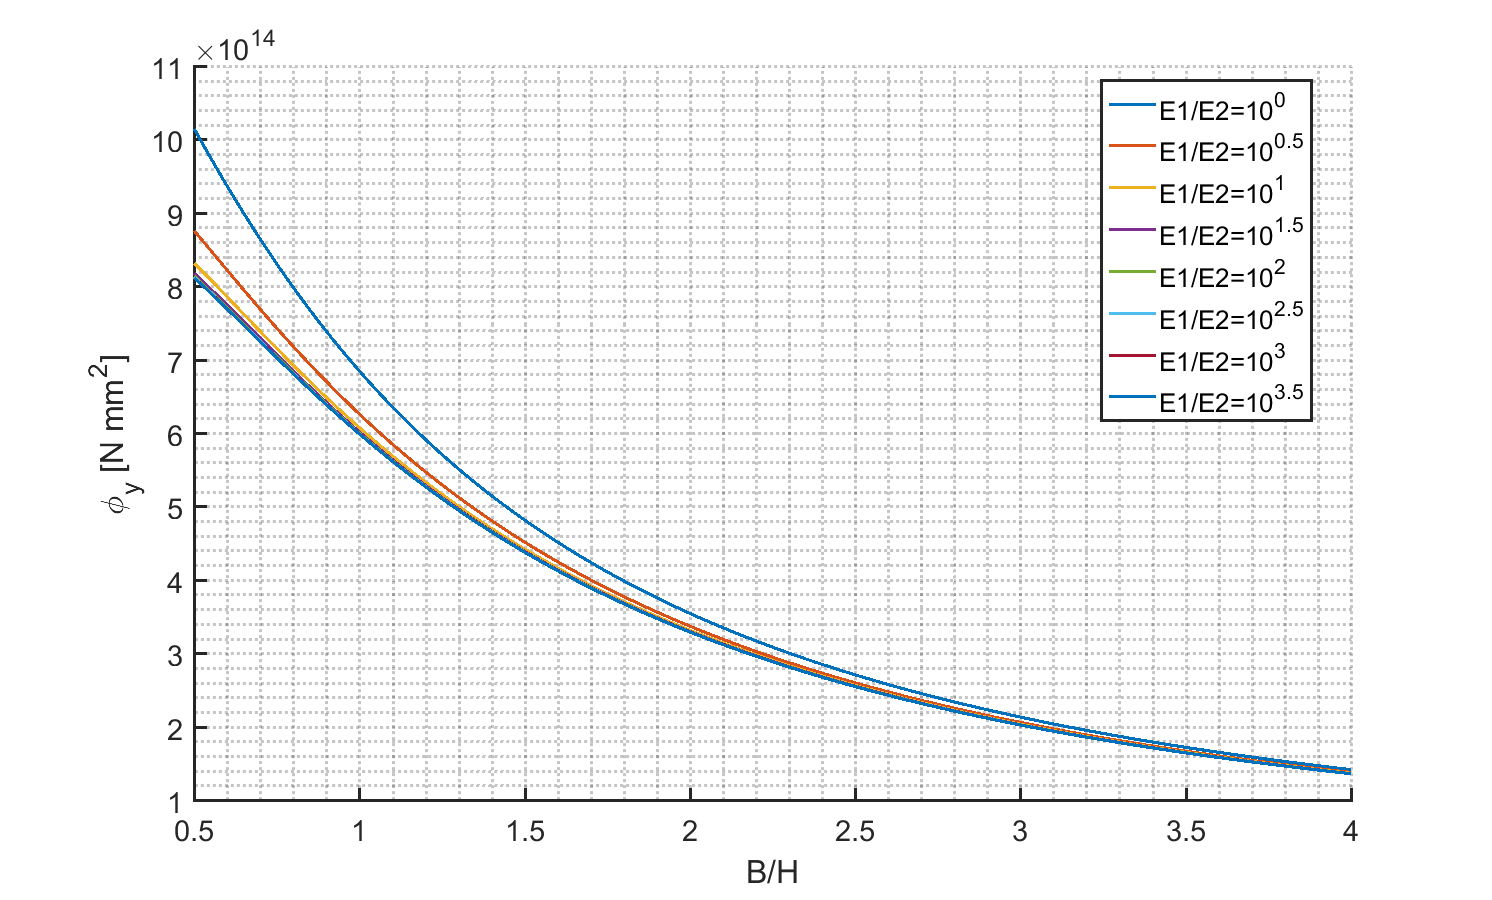
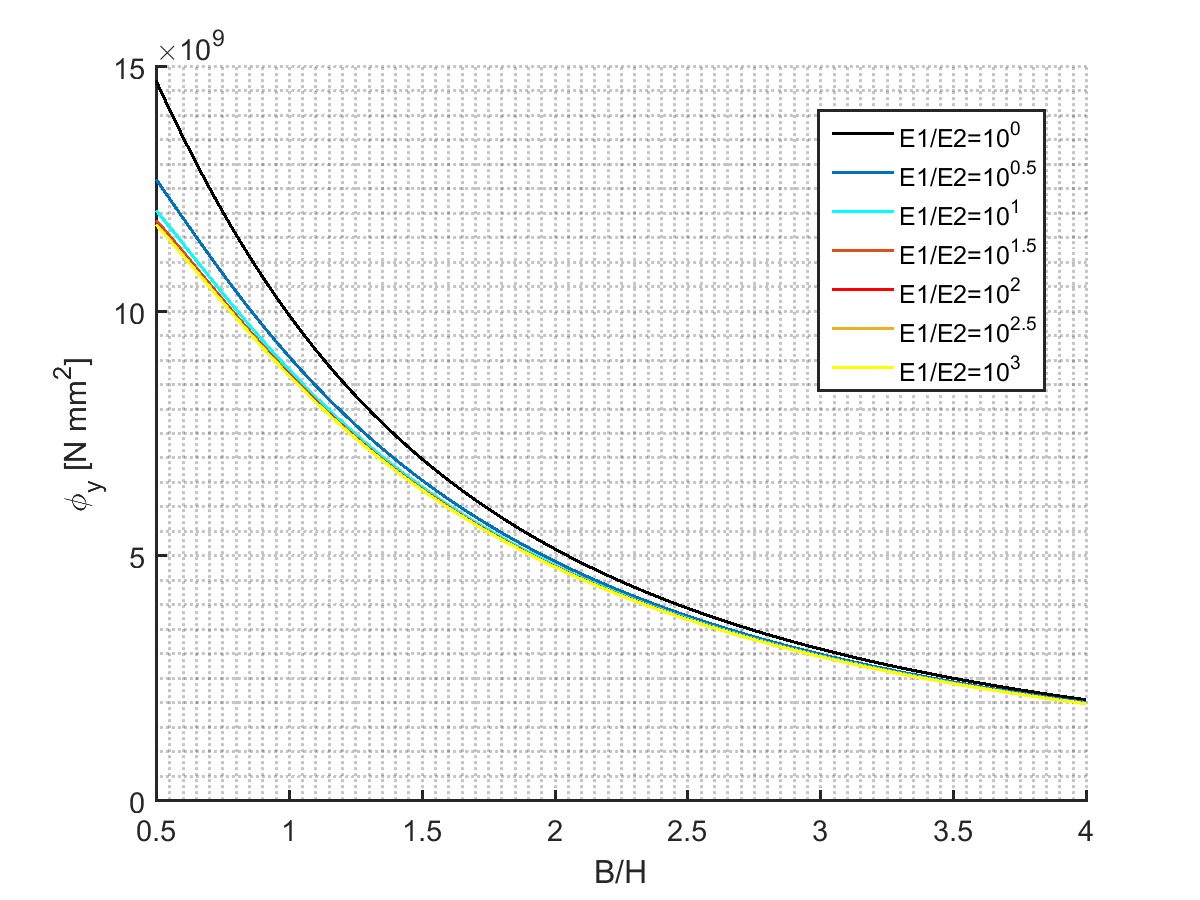
small changes

Changed region(s): [[0.0308, 0.0311, 0.925, 0.9333], [0.4933, 0.9333, 0.555, 0.9956]]

diff --git a/variationParameters.m b/variationParameters.m
@@ -22,7 +22,7 @@ loadCase.posForceAdim = 0.5;
 plotSettings.plotAnalytical = false;
 plotSettings.savePlot = true;
 
-plotSettings.lineStyle = ['k-', 'c-', 'r-', 'y-', 'k--', 'c--', 'r--', 'y--', 'k:', 'c:', 'r:', 'y:','k-.', 'c-.', 'r-.', 'y-.']
+plotSettings.lineStyle = {'k-', 'c-', 'r-', 'y-', 'k--', 'c--', 'r--', 'y--', 'k:', 'c:', 'r:', 'y:','k-.', 'c-.', 'r-.', 'y-.'};
 plotSettings.MarkerSize = 30; %Marker size for scattered points, specified as a positive value in points.
 plotSettings.LineWidth = 1.5; %Line width, specified as a positive value in points.
 plotSettings.axGridAlpha = 0.2; %Grid-line transparency, specified as a value in the range [0,1].
@@ -82,7 +82,7 @@ end
 %%%%%%%%%%%%%%%%%%%%%%%%%%%%%%%%%%%%%%%%%%%%%%
 %%%%%%%%%%%%%%%%%%%%%%%%%%%%%%%%%%%%%%%%%%%%%%
 %% Variation of B/H - Torsional stiffness
-clearvars study, mat, geom
+clearvars study mat geom
 study.BoverH = linspace(0.5, 4, 100);
 study.E1overE2 = [1, 10^0.5, 10^1, 10^1.5, 10^2, 10^2.5, 10^3];
 
@@ -186,7 +186,7 @@ end
 %%%%%%%%%%%%%%%%%%%%%%%%%%%%%%%%%%%%%%%%%%%%%%
 %%%%%%%%%%%%%%%%%%%%%%%%%%%%%%%%%%%%%%%%%%%%%%
 %% Variation of t_2/t_1 - Torsional stiffness
-clearvars study, mat, geom
+clearvars study mat geom
 study.t2overt1 = linspace(0.1, 8, 100);
 study.E1overE2 = [1, 10^0.5, 10^1, 10^1.5, 10^2, 10^2.5, 10^3];
 
@@ -211,7 +211,7 @@ end
 end
 
 figure('Units', 'normalized', 'Position', [0.15 0.1 0.7 0.75])
-set(gcf, 'Name', 'Torsional stiffness variation for different cross sectional aspect ratio B/H and stiffness ratio E_1/E_2)')
+set(gcf, 'Name', 'Torsional stiffness variation for different thickness ratio t_2/t_1 and stiffness ratio E_1/E_2)')
 ax = gca;
 ylabel('G I_t [N mm^2]')
 xlabel(['B/H'])
@@ -238,7 +238,7 @@ end
 %% Shear center
 
 figure('Units', 'normalized', 'Position', [0.15 0.1 0.7 0.75])
-set(gcf, 'Name', 'Shear center for closed section location for different cross sectional aspect ratio B/H and stiffness ratio E_1/E_2)')
+set(gcf, 'Name', 'Shear center for closed section location for different thickness ratio t_2/t_1 and stiffness ratio E_1/E_2)')
 ax = gca;
 ylabel('y_{SC} / B')
 xlabel(['B/H'])
@@ -264,7 +264,7 @@ end
 %%%%%%%%%%%%%%%%%%%%%
 
 figure('Units', 'normalized', 'Position', [0.15 0.1 0.7 0.75])
-set(gcf, 'Name', 'Flexural stiffness for different cross sectional aspect ratio B/H and stiffness ratio E_1/E_2)')
+set(gcf, 'Name', 'Flexural stiffness for different thickness ratio t_2/t_1 and stiffness ratio E_1/E_2)')
 ax = gca;
 ylabel('\phi_y [N mm^2]')
 xlabel(['B/H'])
